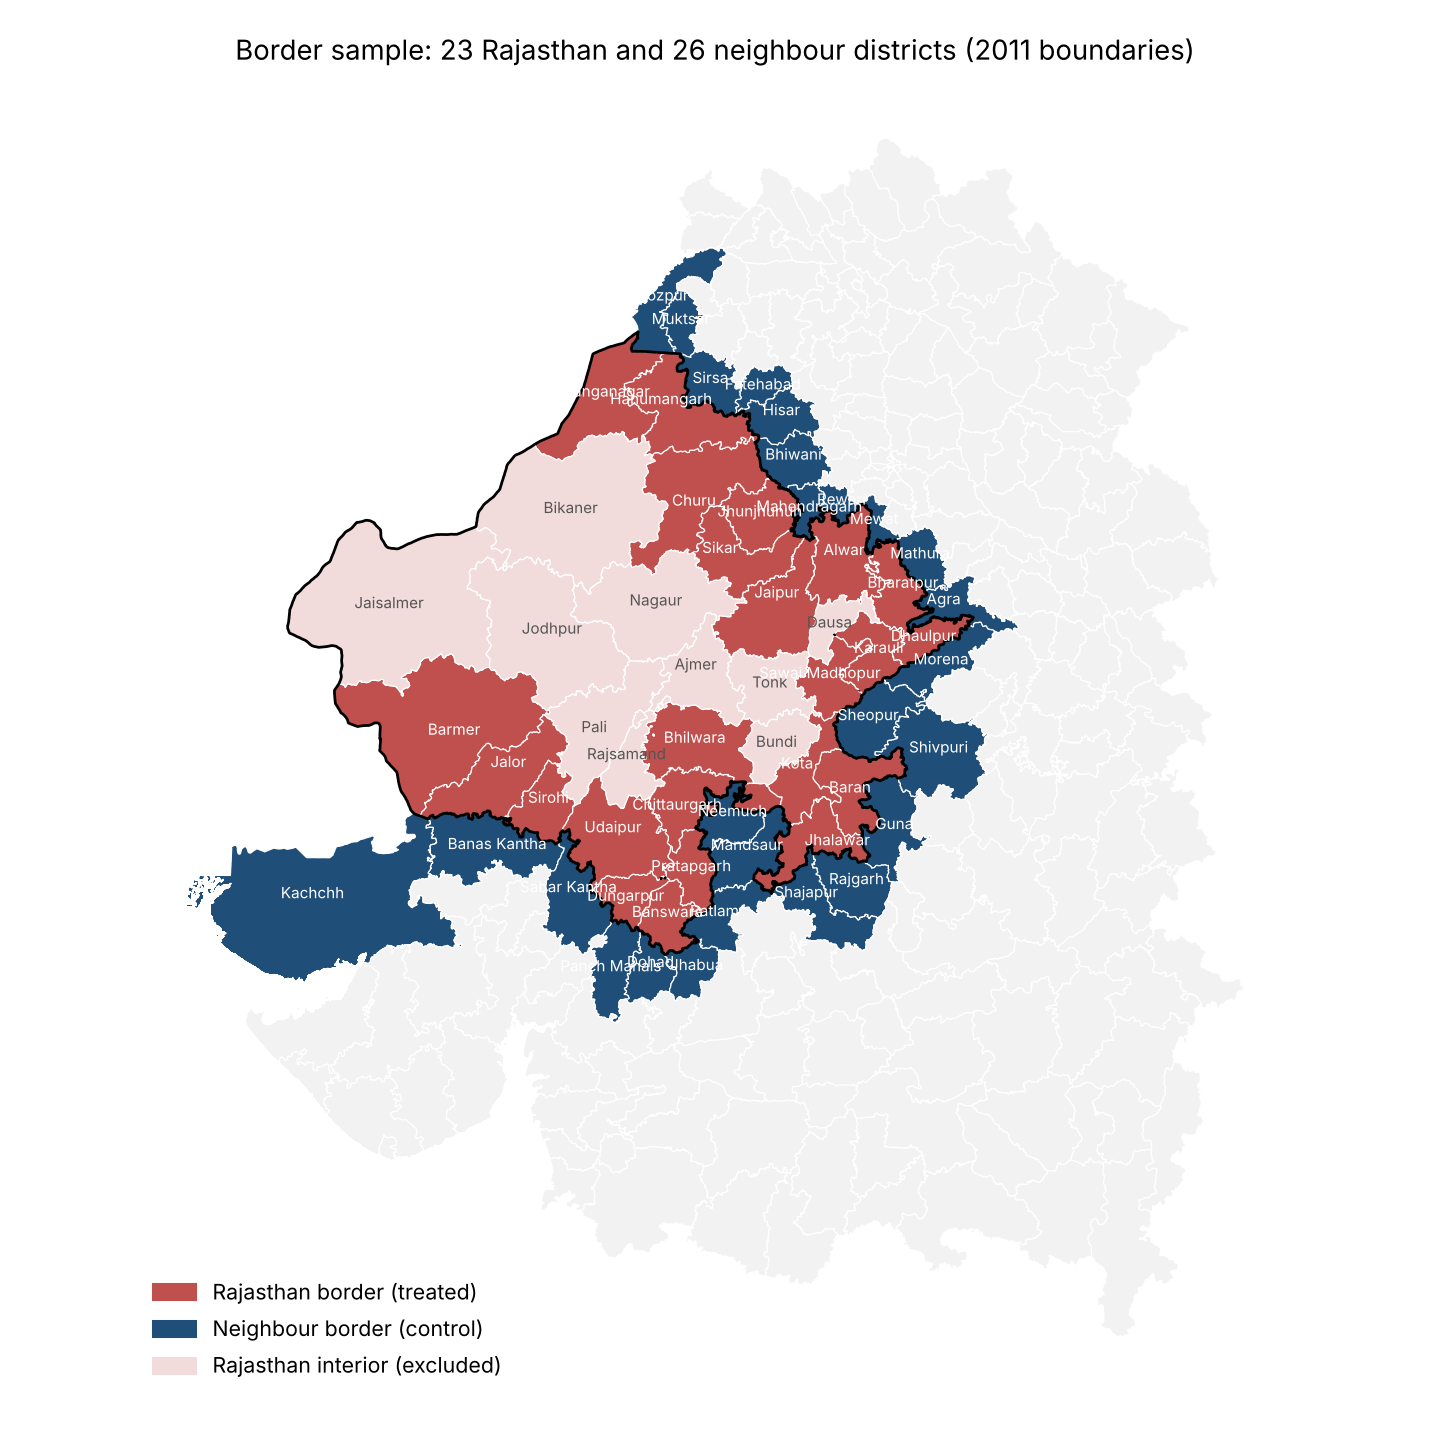
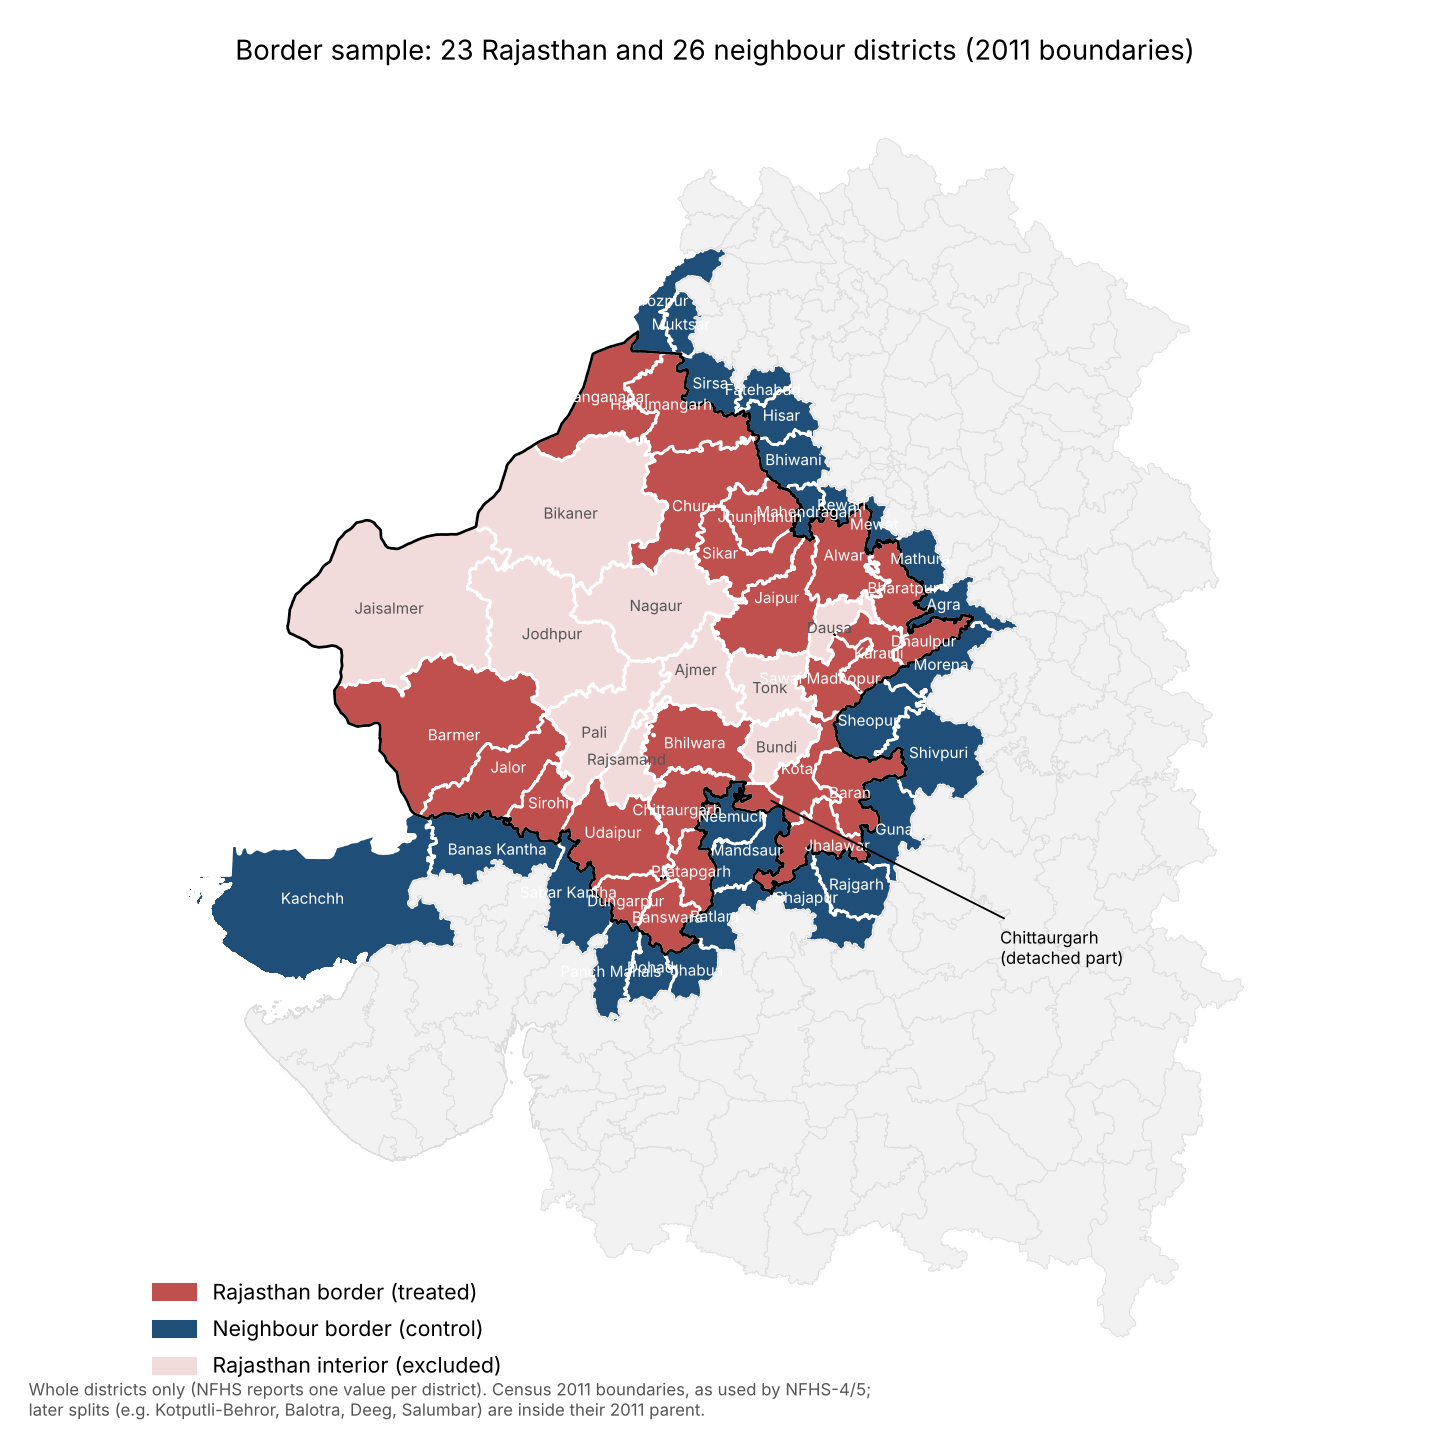
Add methodology walkthrough; clearer border map (whole-district note, Chittaurgarh detached part)
Claude-Session: https://claude.ai/code/session_01DGbLSgRKhn8WJip8RiW6qR

diff --git a/code/06a_border_pairs.py b/code/06a_border_pairs.py
@@ -63,13 +63,26 @@ view = g4.cx[68:80.5, 20.5:31.5]
 for role, c in colors.items():
     part = view[view.role == role]
     if len(part):
-        part.plot(ax=ax, color=c, edgecolor="white", linewidth=0.4, label=role)
+        part.plot(ax=ax, color=c, edgecolor="white" if role != "other" else "#dddddd",
+                  linewidth=0.9 if role != "other" else 0.3, label=role)
 view[view.ST_NM == "Rajasthan"].dissolve().boundary.plot(ax=ax, color="black", linewidth=0.9)
 for _, r in view[view.role != "other"].iterrows():
-    p = r.geometry.representative_point()
-    ax.text(p.x, p.y, r.DISTRICT, fontsize=5, ha="center", color="white" if "border" in r.role else "#555")
+    # label the largest part only, so multi-part districts get one label
+    geom_ = max(r.geometry.geoms, key=lambda q: q.area) if r.geometry.geom_type == "MultiPolygon" else r.geometry
+    p = geom_.representative_point()
+    ax.text(p.x, p.y, r.DISTRICT, fontsize=5, ha="center", va="center",
+            color="white" if "border" in r.role else "#555")
+# Chittaurgarh is one district in two pieces; mark the detached piece
+chit = view[view.DISTRICT == "Chittaurgarh"].geometry.iloc[0]
+if chit.geom_type == "MultiPolygon":
+    small = sorted(chit.geoms, key=lambda q: q.area)[-2].representative_point()
+    ax.annotate("Chittaurgarh\n(detached part)", xy=(small.x, small.y), xytext=(small.x + 3.0, small.y - 1.9),
+                fontsize=5.5, arrowprops=dict(arrowstyle="-", lw=0.6), ha="left")
 handles = [plt.Rectangle((0, 0), 1, 1, color=colors[k]) for k in list(colors)[:3]]
 ax.legend(handles, list(colors)[:3], loc="lower left", fontsize=7, frameon=False)
+fig.text(0.02, 0.01, "Whole districts only (NFHS reports one value per district). Census 2011 boundaries, "
+         "as used by NFHS-4/5;\nlater splits (e.g. Kotputli-Behror, Balotra, Deeg, Salumbar) are inside their 2011 parent.",
+         fontsize=5.5, color="#555")
 ax.set_axis_off()
 ax.set_title(f"Border sample: {len(raj_codes)} Rajasthan and {len(nb_codes)} neighbour districts (2011 boundaries)", fontsize=9)
 fig.tight_layout()

diff --git a/docs/methodology.md b/docs/methodology.md
@@ -1,0 +1,187 @@
+# Methodology: from start to end
+
+**Open gap:** this is not yet a complete *welfare* analysis. It shows that the
+scheme expanded coverage massively, and that out-of-pocket (OOP) spending on
+deliveries did not measurably fall. A cost side needs the premium Rajasthan paid
+per insured family (Rajasthan budget, Medical & Health demand for grants). That
+figure has not been sourced yet.
+
+---
+
+## 1. Research question
+
+**Did Rajasthan's state health insurance scheme raise coverage and reduce
+households' out-of-pocket health spending, relative to comparable districts
+just across the state border?**
+
+- **Policy:** Bhamashah Swasthya Bima Yojana (BSBY), launched 13 Dec 2015.
+  Cashless hospitalisation for ~1 crore poor families. Merged with Ayushman
+  Bharat in 2019 as AB-MGRSBY.
+- **Counterfactual:** neighbouring states (MP, Gujarat, Haryana, Punjab, UP) had
+  the national RSBY and then PM-JAY (2018). The estimate is therefore
+  *Rajasthan's scheme vs the national schemes*, not insurance vs no insurance.
+
+## 2. How the topic was chosen
+
+1. **PMUY (Ujjwala) all-India intensity DiD:** works, but the study needed a
+   single-state focus (kept as appendix, `code/01`–`05`).
+2. **PMUY within Rajasthan:** not identified. All 33 districts gained about the
+   same, regardless of baseline (first-stage F ≈ 0.2).
+3. **Search for a Rajasthan-only scheme with a border comparison:** Rajshri
+   Yojana gave noisy, wrong-signed results. BSBY gave a large, robust coverage
+   effect, so it was chosen.
+
+## 3. Data (all public, direct download)
+
+| File (`data/raw/`) | Content | Source |
+|---|---|---|
+| `nfhs_districts_641_kalla.csv` | NFHS-4 and NFHS-5, 641 districts, ~100 indicators | SaiSiddhardhaKalla/NFHS (IIPS factsheets) |
+| `nfhs5_states_with_nfhs4.csv` | NFHS-4 and NFHS-5 by state | pratapvardhan/NFHS-5 |
+| `nfhs4_states_ht.csv` | NFHS-4 by state, with NFHS-3 (2005-06) values | HindustanTimesLabs/nfhs-data |
+| `map/2011_Dist.*` (downloaded by script) | Census 2011 district boundaries | datameet/maps |
+
+**Data checks:**
+- The district file matches a second source exactly (spot-checked Araria, Arwal and Patna).
+- Districts created after NFHS-4 have their NFHS-4 value coded 0. These are
+  treated as missing.
+- 575 districts are comparable across rounds, which matches the DHS user forum count.
+
+**Outcomes:**
+- **Main:** households with any member covered by health insurance (%).
+- **Welfare:** average OOP per delivery in a public facility (Rs), and its log.
+- **Utilisation:** institutional births (%); births in public facilities (%).
+- **Placebos** (should not respond to insurance): electricity (%); women with
+  10+ years of schooling (%).
+
+## 4. Border sample (`code/06a_border_pairs.py`)
+
+1. **Load the Census 2011 district map.** NFHS-4 and NFHS-5 report the 2011
+   districts (33 in Rajasthan), not the 2023/25 ones (41).
+2. **Find touching districts:** every district in another state within 500 m of
+   each Rajasthan district's boundary. The tolerance absorbs digitisation gaps.
+3. **Measure the shared border length** to catch corner-only touches. The
+   minimum is about 7 km, so there are no corner touches.
+4. **Result:** 51 pairs; 23 Rajasthan and 26 neighbour districts.
+5. **Join to NFHS on census state and district codes**, not names (spellings
+   differ: "Panch Mahals" vs "Panchmahal").
+6. **Drop five neighbour districts split after NFHS-4** (Panchmahal,
+   Sabarkantha, Bhiwani, Shajapur, Firozpur). They have no comparable NFHS-4
+   value. That leaves **40 pairs** in the regressions.
+
+![Border sample](../output/insurance/fig_border_map.png)
+
+### Why some districts look partial on the map
+
+Every district is used **whole**. NFHS gives one value per district, so a
+partial district is impossible. Three things make the map look otherwise:
+
+1. **2011 vs current boundaries.** Rajasthan split several districts in 2023.
+   The study must use the 2011 parents:
+
+   | 2011 district (used) | Now split into |
+   |---|---|
+   | Jaipur | Jaipur, Kotputli-Behror (part), Dudu |
+   | Alwar | Alwar, Khairthal-Tijara, Kotputli-Behror (part) |
+   | Bharatpur | Bharatpur, Deeg |
+   | Barmer | Barmer, Balotra |
+   | Udaipur | Udaipur, Salumbar |
+   | Jodhpur / Nagaur / Ajmer | parts went to Phalodi, Didwana-Kuchaman, Beawar |
+
+   This is why **Jaipur is a border district**: in 2011 it included the Kotputli
+   area, which touches Haryana.
+2. **Chittaurgarh is in two pieces.** Its detached part (about a quarter the
+   size of the main block) lies near Kota, next to MP. Both pieces are coloured
+   as Chittaurgarh.
+3. **MP's Neemuch and Mandsaur cut deep into southern Rajasthan.** That blue
+   wedge sits inside the Rajasthan outline. It's the state boundary that is
+   irregular; the surrounding red districts are complete.
+
+**Limitation:** districts are large (Barmer ≈ 28,000 km²), so this compares
+border *districts*, not border *villages*. Sood et al. (2014) compare villages.
+A GPS-based version is future work.
+
+## 5. Main specification: border-pair DiD (`code/06_insurance_border.py`)
+
+Following Dube, Lester & Reich (2010):
+
+1. **Difference each district across rounds:**
+   ΔY_d = Y_d(NFHS-5) − Y_d(NFHS-4). With two periods this equals a DiD with
+   district fixed effects.
+2. **Stack the pairs:** each pair contributes its Rajasthan district and its
+   neighbour. A district bordering three neighbours appears three times.
+3. **Regression:**
+
+   ΔY_ip = β · Rajasthan_i + γ_p + ε_ip
+
+   where γ_p is a pair fixed effect, so the comparison is only within each
+   touching pair. β is the DiD.
+4. **Standard errors:** two-way clustered by Rajasthan district and neighbour
+   district, because districts repeat across pairs. Dube et al. cluster by state
+   and border segment, but we have too few of those (6 states, 5 segments).
+5. **Samples:**
+
+   | Sample | Reason |
+   |---|---|
+   | All borders (40 pairs) | Main |
+   | Drop Gujarat | Own state scheme (MA Yojana) since 2012 (cf. Karan et al. 2017) |
+   | MP border only | MP had almost no RSBY enrolment by 2016 (Karan et al. 2017): cleanest control |
+   | Pairs sharing ≥ 10 km | Drops short borders |
+
+6. **Placebos (cf. Sood et al. 2014):** the same regression on electricity and
+   women's schooling. A "Rajasthan effect" there would signal Rajasthan-wide
+   divergence rather than insurance.
+
+## 6. Pre-trend: three-round state event study
+
+District data has only two rounds, so parallel trends are checked at state
+level with NFHS-3.
+
+| Insurance coverage (%) | 2005-06 | 2015-16 | 2019-21 |
+|---|---|---|---|
+| Rajasthan | 4.5 | 18.7 | 87.8 |
+| Mean of 5 neighbours | ~5.9 | ~16.1 | ~28.8 |
+
+- **φ2 (pre-period DiD, 2005→2016):** +4.1 pp. Roughly parallel.
+- **φ3 (post-period DiD, 2016→2020):** +56.4 pp.
+- **φ3 − φ2:** +52.3 pp (trend-adjusted; Karan et al. 2017 notation).
+- **Permutation (Abadie et al. 2010; Conley & Taber 2011):** each of 26 states is
+  "treated" in turn. Rajasthan's post-period gap ranks 1st, so p = 1/26 ≈ 0.04.
+
+## 7. Results
+
+| | Estimate | Reading |
+|---|---|---|
+| Insurance coverage | **+52.8 pp** (SE 5.1, p < 0.001); +45 to +52 across all samples | Very large coverage effect |
+| OOP per delivery | −Rs 253 (SE 702), n.s. | No detectable financial protection on deliveries |
+| Institutional births | −1.2 pp, n.s. | No change in use |
+| Placebo: electricity | +3.2, n.s. | Passes |
+| Placebo: women's schooling | +3.1, p = 0.08 | Borderline; report it |
+| State event study | Parallel, then 1st of 26 | Supports the design |
+
+**Why OOP may not fall:** public-facility deliveries were already nearly free
+under JSY, so there was little to cut. This is consistent with Karan, Yip & Mahal
+(2017), who find RSBY did not reduce OOP.
+
+## 8. Limitations
+
+1. **Contaminated baseline:** Rajasthan's NFHS-4 fieldwork ran 23 Jan – 21 Jul
+   2016, after the launch, so β is a **lower bound**.
+2. **Comparison is scheme vs scheme:** BSBY/AB-MGRSBY against RSBY/PM-JAY.
+3. **District averages:** eligible and ineligible households can't be
+   separated, so there's no triple difference.
+4. **Nominal OOP:** inflation that is common to both sides of a pair cancels.
+5. **OOP covers deliveries only:** a narrow measure. NSS health rounds would be
+   better (future work).
+6. **No spatial RDD:** that needs household GPS (DHS) data (future work; Dell
+   2010, Sood et al. 2014).
+
+## 9. Files
+
+| File | Purpose |
+|---|---|
+| `code/06a_border_pairs.py` | 51 pairs from the map; `fig_border_map.png` |
+| `code/06_insurance_border.py` | Border DiD, placebos, state event study, permutation |
+| `output/insurance/border_pair_did.csv` | All regression estimates |
+| `output/insurance/state_event_study.txt` | φ2, φ3, permutation |
+| `output/insurance/fig_state_event_study.png` | Three-round chart |
+| `docs/literature.md` | References |

diff --git a/README.md b/README.md
@@ -8,6 +8,10 @@ following Dube, Lester & Reich (2010).
 
 ![Border sample](output/insurance/fig_border_map.png)
 
+Full walkthrough (data, sample construction, why districts look partial on the
+map, specification, inference, limitations): [`docs/methodology.md`](docs/methodology.md).
+References: [`docs/literature.md`](docs/literature.md).
+
 ## Design
 
 - **Sample:** 51 contiguous Rajasthan–neighbour district pairs from the Census
